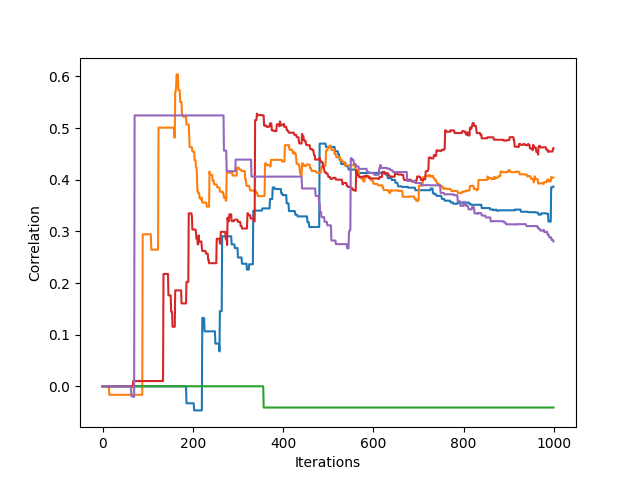
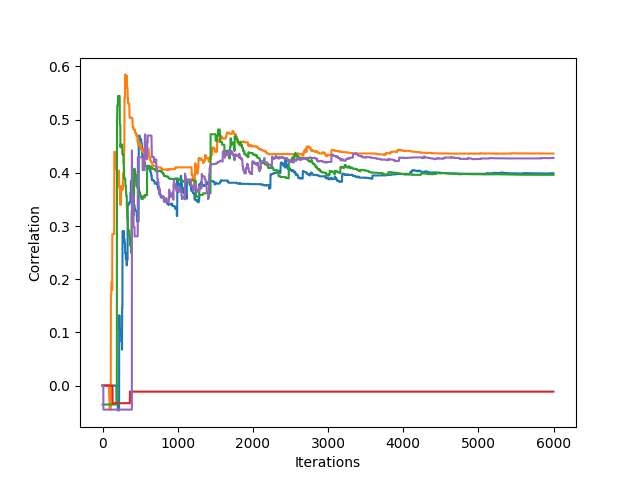
Adjusted iterations to reach equilibrium

diff --git a/rl_power_seeking_power_law.py b/rl_power_seeking_power_law.py
@@ -60,7 +60,7 @@ def value_degree_correlation(mdp, value_function):
 
 for i in range(5):
     mdp = SimpleMDP(n_states=100, k_rewards=1, exponent = 1.5)
-    value_functions = mdp.value_iteration(iterations = 1000)
+    value_functions = mdp.value_iteration(iterations = 6000)
     correlations = list()
     for i, value_function in enumerate(value_functions):
         sorted_value_function = sorted(value_function)
